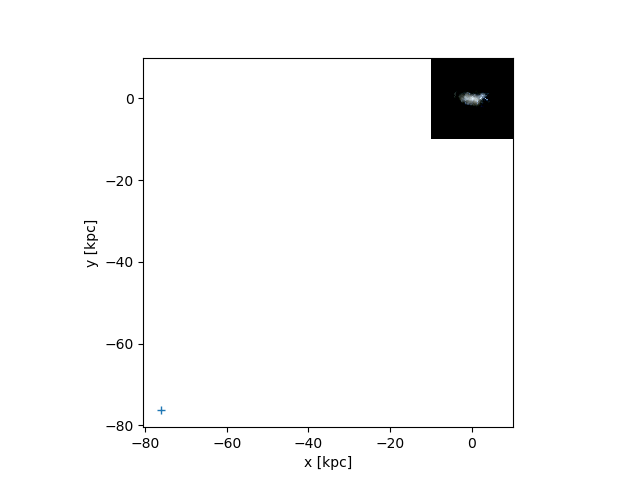
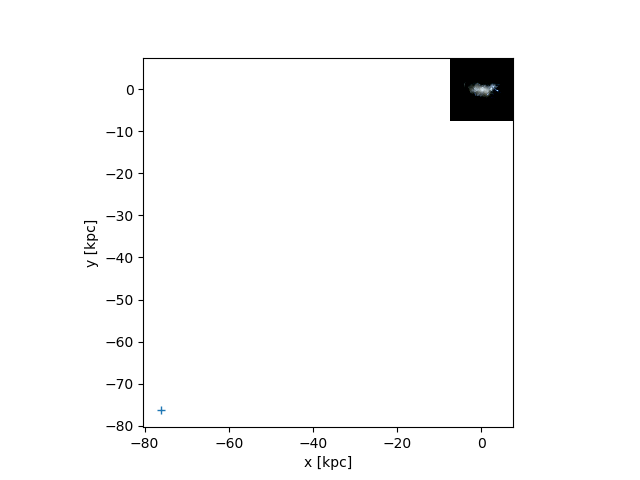
added

diff --git a/crosses.py b/crosses.py
@@ -1,0 +1,74 @@
+#my new task is to make a picture of the galaxy in the next snapshot, where the two galaxies are merging!!!
+# i need to have two crosses. one for each BH
+
+#import the important stuff
+import matplotlib.pylab as plt
+import numpy as np
+import pynbody
+import BH_functions_new as BHF
+
+#snapshot!!
+s = pynbody.load("/media/jillian/h148/h148.cosmo50PLK.3072g3HbwK1BH.000640/h148.cosmo50PLK.3072g3HbwK1BH.000640")
+
+#convert the units
+s.physical_units()
+
+#load any available halo catalogue
+h= s.halos()
+# Jillian said that what I'm looking for is halo 1
+h1= h[1]
+
+#Jillian also said there might be many bh in this galaxy so i might need to identify each of the bh separately by their id number instead of plotting every bh
+
+# this code will be repeated for all other snapshots until bh merge so make it flexible
+
+#black hole id function
+def findBH(s):
+    BHfilter = pynbody.filt.LowPass('tform', 0.0)
+    BH = s.stars[BHfilter]
+    return BH
+
+#function to find halos that hosts bh
+BH = findBH(s)
+print('The number of black holes in this snapshot;', len(BH))
+
+def findBHhalos(s):
+    BH = findBH(s)
+    BHhalos = BH ['amiga.grp']
+    return BHhalos
+
+BHhalos = findBHhalos(s)
+
+#print BHhalos[currenthalo]
+BH_ID = BH['iord']
+BH_ID = BH['iord']
+
+#h1 specifically
+pynbody.analysis.angmom.faceon(h[1])
+
+#positions of the bh
+BHposition = BH['pos']
+
+#BHpos = np.where(BHhalos ==15)
+#print BHhalos
+#print BHpos
+#h1 index is 13
+
+BHx= BHposition[[13], 0]
+print "x position", BHx
+
+BHy= BHposition[[13],0]
+print "y position", BHx
+
+BHz= BHposition[[13], 0]
+print "z position", BHz
+
+
+#make my picture
+BHF.render(h1, width = '15 kpc', plot= True, ret_im=True)
+
+# add crosses
+plt.plot (BHx, BHy, '+')
+plt.savefig("practice.cross"+".png")
+
+
